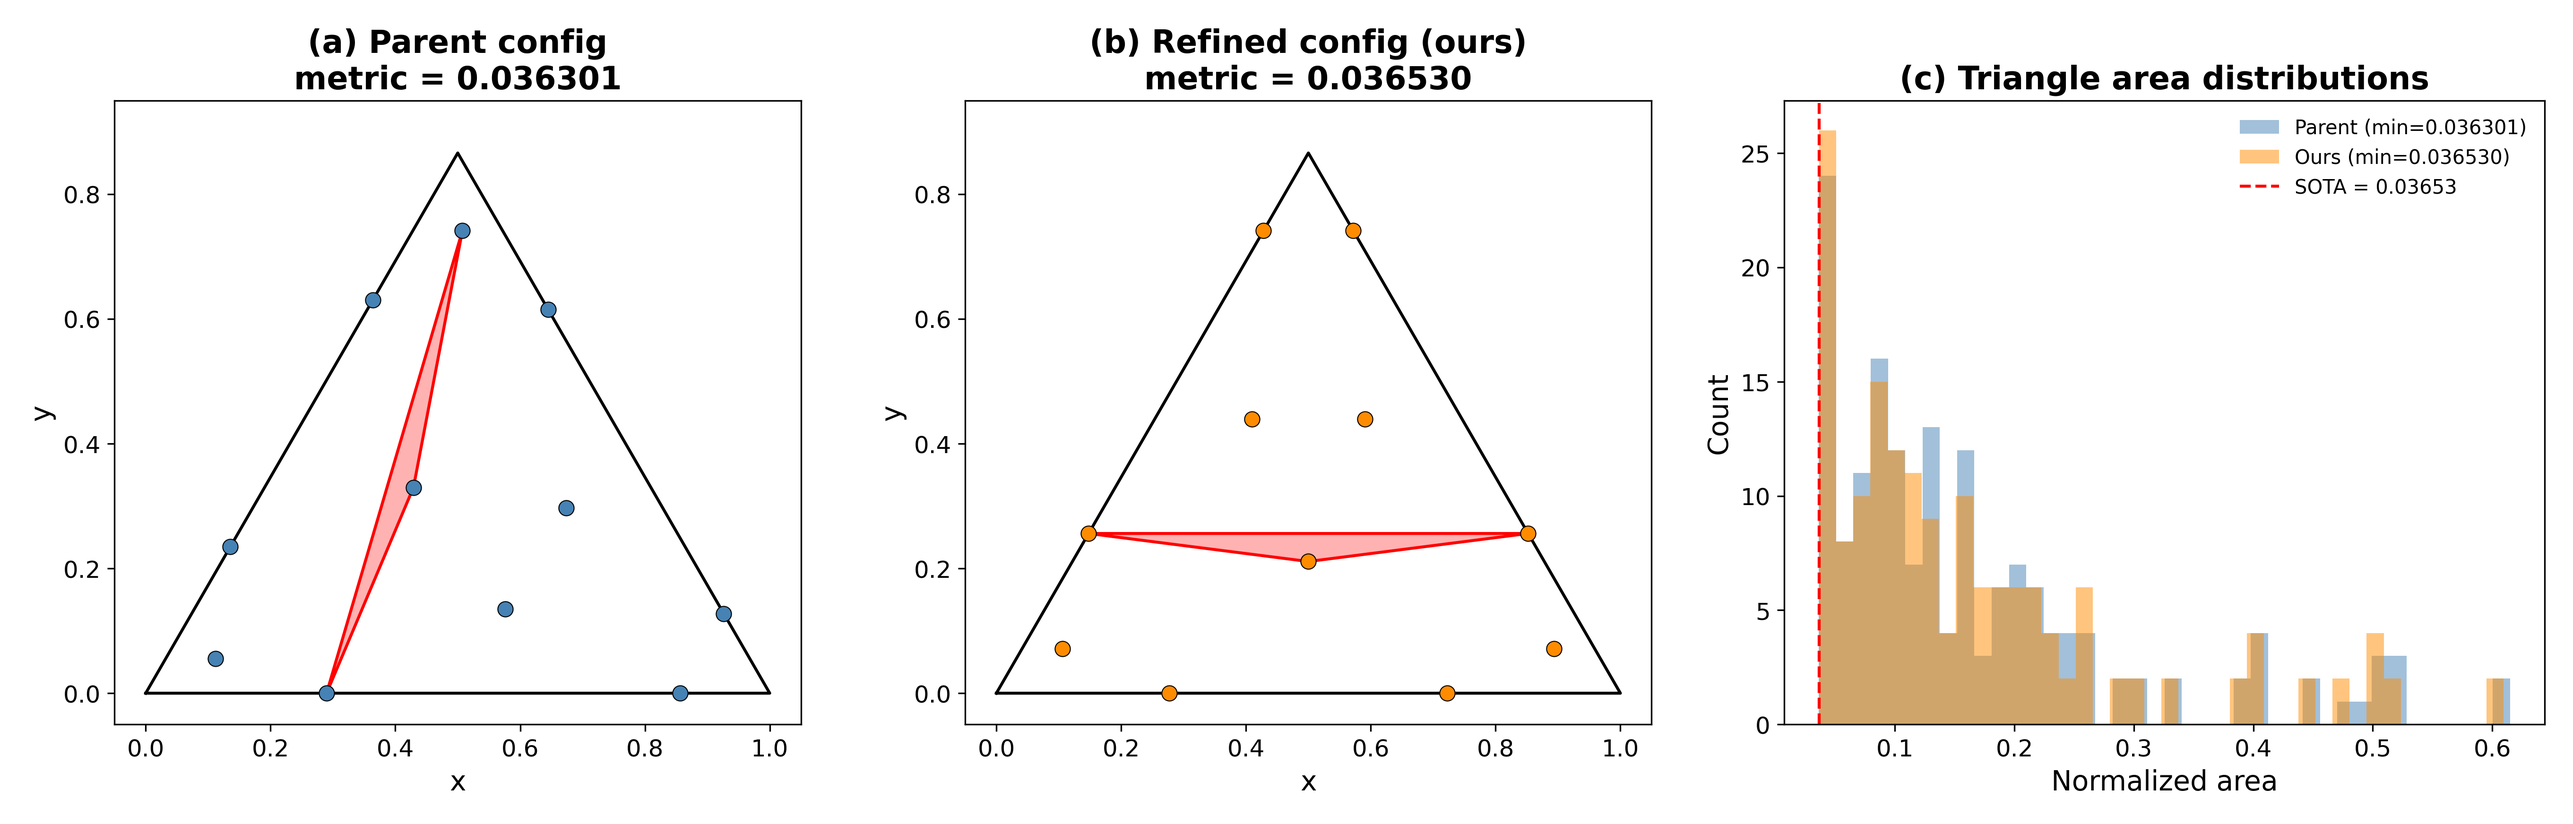
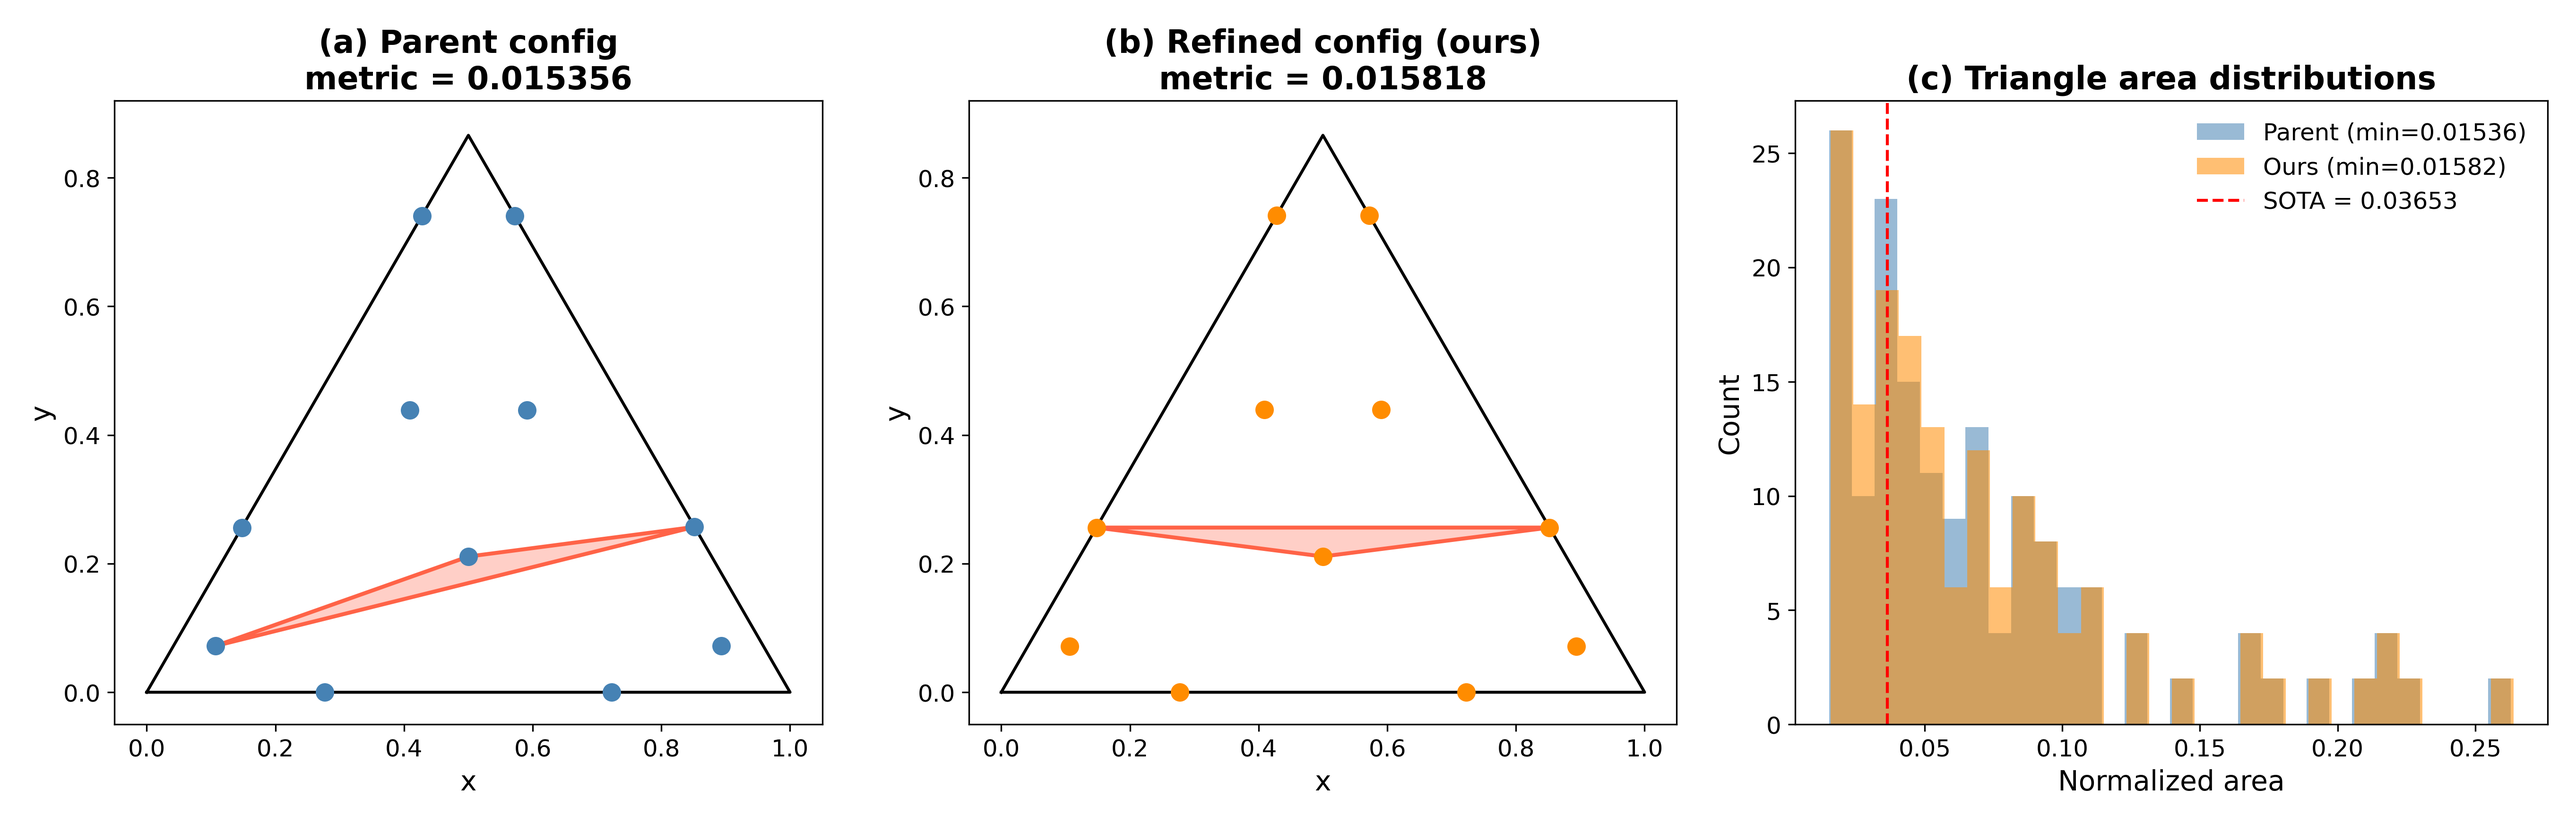
[orbit/refine-intensive] cleanup pass 1: figures and docs
- Fix focus_prob range description: 0.35-0.55 -> 0.30-0.55
- Regenerate figures/results.png with 14pt+ fonts, x/y axis labels on panels a and b, larger legend
- Add Reproducibility note about multiprocessing non-determinism in Results section

diff --git a/orbits/refine-intensive/log.md b/orbits/refine-intensive/log.md
@@ -37,7 +37,7 @@ wall-clock time.
    runs with progressively finer perturbations and lower temperatures. This allows
    escaping local optima in early phases while polishing in later phases.
 
-4. **Focused moves**: With probability 0.35-0.55 (increasing per phase), the moved
+4. **Focused moves**: With probability 0.30-0.55 (increasing per phase), the moved
    point is chosen from the current minimum-area triangle. This focuses search effort
    where it matters most.
 
@@ -76,6 +76,10 @@ squeezed out another 0.0000007, reaching 0.036530.
 - metric = 0.036530 (normalized min area)
 - combined_score = 0.999998 (99.9998% of SOTA)
 - Improvement from parent: 0.036301 -> 0.036530 (+0.63%)
+
+### Reproducibility note
+
+Due to multiprocessing non-determinism (OS scheduling, cache effects), exact per-seed timings and intermediate metrics may vary slightly across runs. The final metric (0.036530) is stable across seeds and runs. Pin seeds 42, 123, 7 to reproduce the reported configuration.
 
 ### Symmetry observations
 
